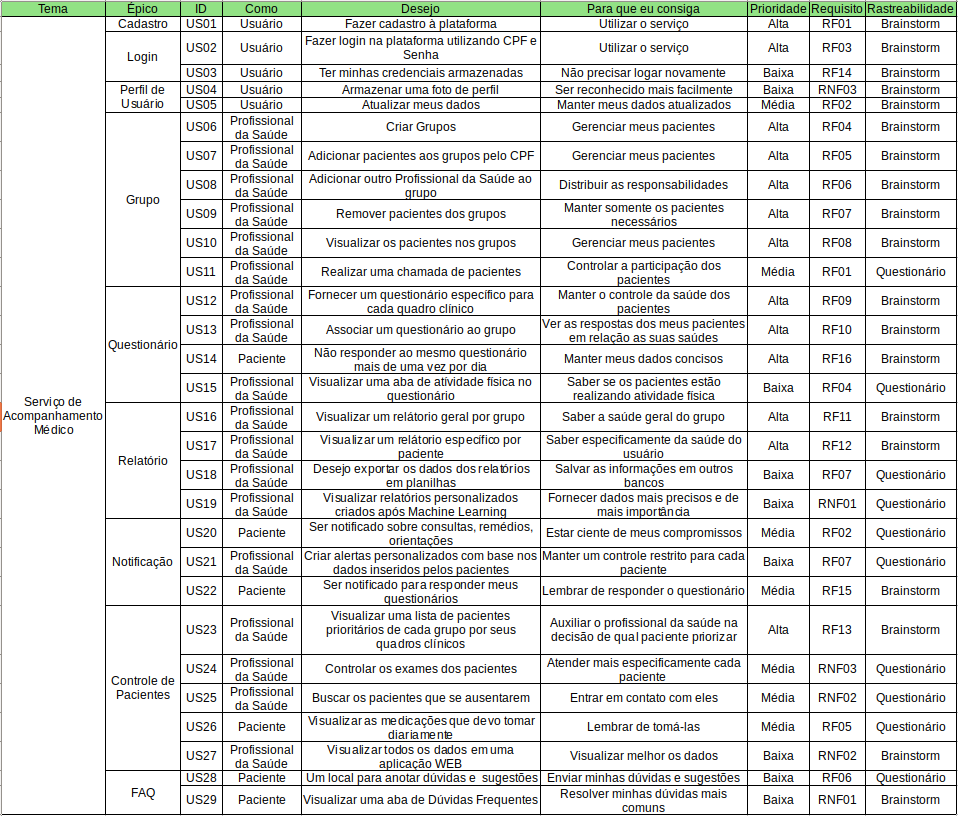
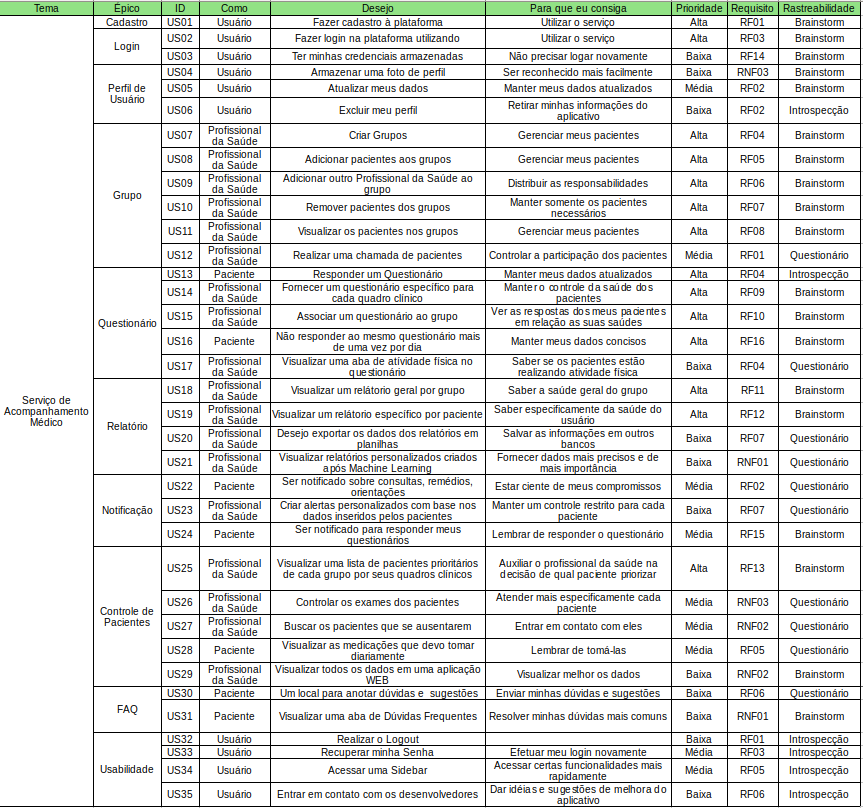
Docs/ Adicionando requisitos da introspecção ao backlog

diff --git a/docs/backlog_produto.md b/docs/backlog_produto.md
@@ -70,6 +70,14 @@ Eu, como um usuário, desejo atualizar meus dados para que eu consiga sempre man
 - Botão para editar o perfil quando o usuário estiver logado
 - Atualizar os dados no banco de dados
 
+#### US06: Excluir meu Perfil
+##### Origem: [Introspecção](./introspeccao.md)
+Eu como um usuário, desejo remover meu perfil para que eu consiga retirar meus dados da aplicação
+##### Critérios de Aceitação:
+- Botão para usuário remover conta na página de perfil
+- Botão de confirmação para remover a conta
+- Retirar os dados do usuário do banco de dados
+
 ### EP04: Grupo
 #### US06: Criar grupo
 ##### Origem: [Brainstorm](./brainstorm.md)
@@ -271,3 +279,5 @@ Eu, como paciente, desejo visualizar uma página com as dúvidas mais frequentes
 - Botão na SideBar para acessar a página
 - Página contendo as dúvidas mais frequentes e suas respostas
 - Validação de um profissional para cada resposta
+
+### EP10: Usabilidde
